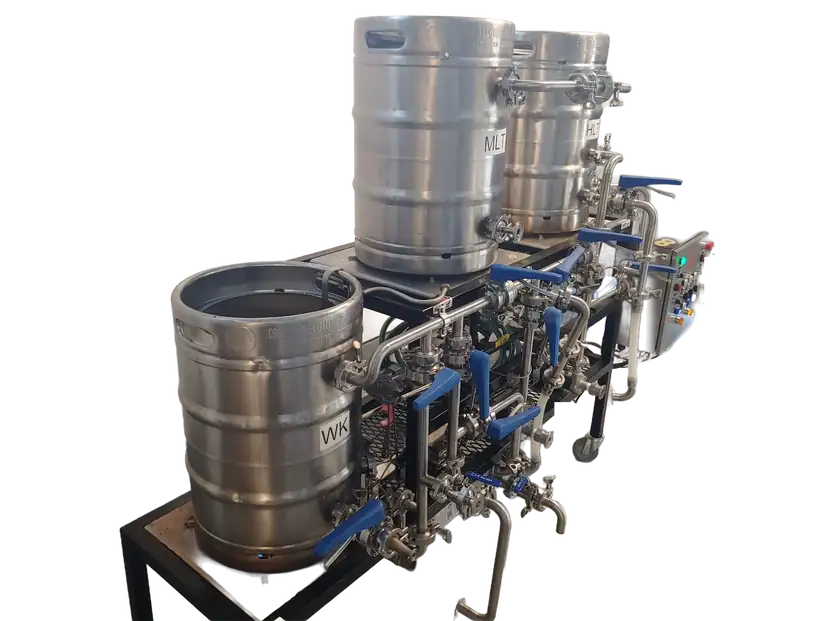
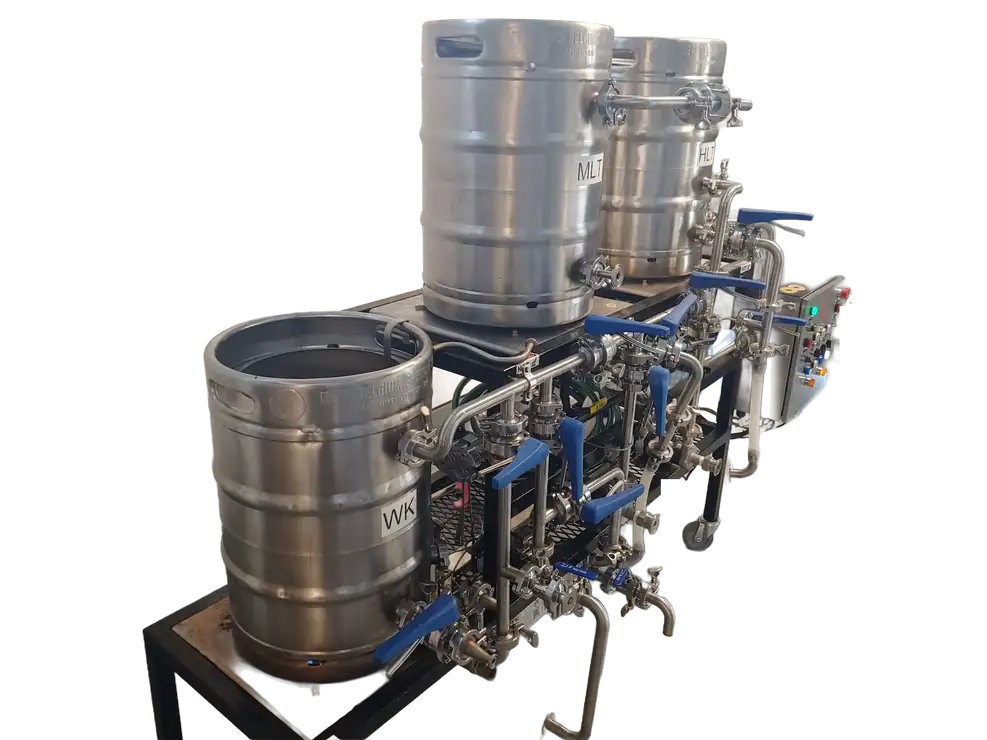
feat(home): section-anchored backdrop art replaces fixed backdrop
Six brewery images now live inside their sections (cip→about,
cellar→network, still→services, rig→tools, tanks→experience,
filtration→proof) as absolute-positioned first children at z-index:-1,
scrolling with content. Guy-placed layout via the placement tool.
Art hidden under 760px until a mobile layout is composed (lazy imgs
with no box don't download). WebPs re-encoded at the new widths.

diff --git a/index.html b/index.html
@@ -221,10 +221,6 @@
 </head>
 <body>
 <a class="skip" href="#top">Skip to content</a>
-<img class="bg-art" id="bg-rig" src="art/rig.webp" alt="" loading="lazy" decoding="async">
-<img class="bg-art" id="bg-filtration" src="art/filtration.webp" alt="" loading="lazy" decoding="async">
-<img class="bg-art" id="bg-cip" src="art/cip.webp" alt="" loading="lazy" decoding="async">
-<img class="bg-art" id="bg-cellar" src="art/cellar.webp" alt="" loading="lazy" decoding="async">
 <canvas id="cells" aria-hidden="true"></canvas>
 <div id="prog"></div>
 
@@ -332,6 +328,7 @@
 
 <!-- ABOUT / THE PIVOT -->
 <section id="about">
+<img class="bg-art" id="bg-cip" src="art/cip.webp" alt="" loading="lazy" decoding="async">
   <div class="wrap">
     <div class="about-grid">
       <div class="about-text reveal">
@@ -369,6 +366,7 @@
 
 <!-- THROUGH-LINE / LIVING MAP -->
 <section id="network">
+<img class="bg-art" id="bg-cellar" src="art/cellar.webp" alt="" loading="lazy" decoding="async">
   <div class="wrap">
     <div class="thru reveal">
       <span class="kicker">// the through-line</span>
@@ -383,6 +381,7 @@
 
 <!-- SERVICES -->
 <section id="services">
+<img class="bg-art" id="bg-still" src="art/still.webp" alt="" loading="lazy" decoding="async">
   <div class="wrap">
     <div class="sec-head reveal">
       <span class="ghost">02</span>
@@ -470,6 +469,7 @@
 
 <!-- FREE TOOLS & GUIDES -->
 <section id="tools">
+<img class="bg-art" id="bg-rig" src="art/rig.webp" alt="" loading="lazy" decoding="async">
   <div class="wrap">
     <div class="sec-head reveal">
       <span class="kicker">// free tools &amp; guides</span>
@@ -513,6 +513,7 @@
 
 <!-- EXPERIENCE (moved above the work menu: proof before pitch) -->
 <section id="experience">
+<img class="bg-art" id="bg-tanks" src="art/tanks.webp" alt="" loading="lazy" decoding="async">
   <div class="wrap">
     <div class="sec-head reveal">
       <span class="ghost">03</span>
@@ -559,6 +560,7 @@
 <!-- PROJECTS / WORK MENU -->
 <!-- PROOF / SEE THE WORK -->
 <section id="proof">
+<img class="bg-art" id="bg-filtration" src="art/filtration.webp" alt="" loading="lazy" decoding="async">
   <div class="wrap">
     <div class="sec-head reveal">
       <span class="ghost">04</span>

diff --git a/styles.css b/styles.css
@@ -34,12 +34,18 @@ a{color:inherit;text-decoration:none}
 .skip:focus{left:0}
 :focus-visible{outline:2px solid var(--teal);outline-offset:3px;border-radius:4px}
 
-/* fixed backdrop art — paints behind the yeast canvas (same z-index, earlier in DOM) */
-.bg-art{position:fixed;z-index:0;pointer-events:none;user-select:none;max-width:none}
-#bg-rig{left:-6.3vw;top:-1.4vh;width:37.5vw;opacity:.32;filter:grayscale(60%)}
-#bg-filtration{left:66.1vw;top:-1.6vh;width:54.1vw;opacity:.4;filter:grayscale(60%)}
-#bg-cip{left:-16.4vw;top:41.9vh;width:52.8vw;opacity:.4;filter:grayscale(60%)}
-#bg-cellar{left:63.7vw;top:52.9vh;width:35.7vw;opacity:.4;filter:grayscale(60%)}
+/* section-anchored backdrop art — absolute inside each section, scrolls with content */
+.bg-art{position:absolute;z-index:-1;pointer-events:none;user-select:none;max-width:none}
+#bg-cip{left:-12.6vw;top:78px;width:43.4vw;opacity:.4;filter:grayscale(60%)}
+#bg-cellar{left:27.6vw;top:-235px;width:80.8vw;opacity:.4;filter:grayscale(60%)}
+#bg-still{left:-26.6vw;top:277px;width:140vw;opacity:.4;filter:grayscale(60%)}
+#bg-rig{left:-10.4vw;top:120px;width:44.7vw;opacity:.32;filter:grayscale(60%)}
+#bg-tanks{left:56.6vw;top:-150px;width:42vw;opacity:.4;filter:grayscale(60%)}
+#bg-filtration{left:46.9vw;top:-6px;width:81vw;opacity:.4;filter:grayscale(60%)}
+@media(max-width:760px){
+  /* mobile layout not composed yet — art hidden (lazy imgs with no box don't download) */
+  .bg-art{display:none}
+}
 
 /* yeast→network canvas */
 #cells{position:fixed;inset:0;z-index:0;opacity:.6;pointer-events:none}
